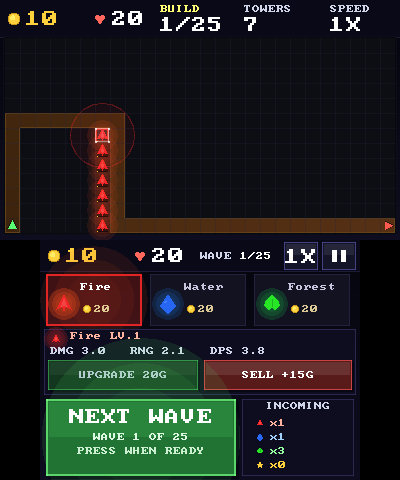
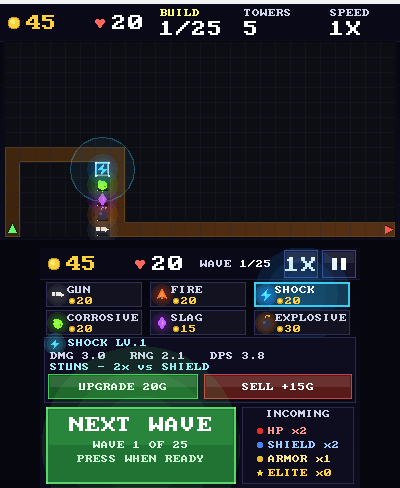
readme: borderlands damage model, v0.3 screenshots and release notes

diff --git a/source/ui.h b/source/ui.h
@@ -75,7 +75,7 @@ bool ui_rect_contains(UiRect r, float x, float y);
 
 /* ---- explicit hit boxes, shared with the preview harness ---- */
 UiRect ui_start_rect(void);             /* PHASE_MENU: START               */
-UiRect ui_tower_button_rect(int type);  /* 0..2                            */
+UiRect ui_tower_button_rect(int type);  /* 0..5 (DamageType)               */
 UiRect ui_upgrade_rect(void);           /* selected / cursor tower panel   */
 UiRect ui_sell_rect(void);
 UiRect ui_next_wave_rect(void);         /* PHASE_BUILD                     */

diff --git a/README.md b/README.md
@@ -1,12 +1,12 @@
 # Attempt 2: Elemental Defense for the 3DS
 
 A tower defense game I originally wrote in LÖVE2D, rebuilt from scratch in C so it actually runs
-properly on a Nintendo 3DS.
+properly on a Nintendo 3DS — now with a Borderlands-style layered damage model.
 
 The first attempt ran the LÖVE version through LovePotion. It booted! And then crawled at a few
 frames per second with half the playfield off-screen and touch controls fighting LÖVE's mouse
 emulation. Rather than keep patching a compatibility layer that was never going to behave, this repo
-is the native rewrite: same game, same numbers, drawn with `citro2d`.
+is the native rewrite: same core idea, drawn with `citro2d`.
 
 The old attempt for posterity: [tower-defense-3ds-psvita-project-attempt](https://github.com/Mist-Eros/tower-defense-3ds-psvita-project-attempt)
 
@@ -17,35 +17,48 @@ The old attempt for posterity: [tower-defense-3ds-psvita-project-attempt](https:
 A grid tower defense on a 26x13 board. Creeps crawl along a road from the left edge to the right, you
 build towers to stop them, and every kill pays for the next tower.
 
-The important bit: **you build on the road, not just next to it.** Every tower you drop on the path
-makes the creeps recalculate their route around it, so the game is about walling off the short way and
-forcing them through a long winding detour that keeps them in range of more towers. The route is a BFS
-shortest path and gets recomputed after every build and every sell; creeps already on the road follow
-the new route. Block the road completely and the game won't let you place the tower.
+Two things make it different from a normal tower defense:
 
-Three elemental towers — **Fire**, **Water**, **Forest** — with a rock-paper-scissors damage table:
+**You build on the road, not just next to it.** Every tower you drop on the path makes the creeps
+recalculate their route around it, so the game is about walling off the short way and forcing them
+through a long winding detour that keeps them in range of more towers. The route is a BFS shortest
+path and gets recomputed after every build and every sell; creeps already on the road follow the new
+route. Block the road completely and the game won't let you place the tower.
 
-| | vs Fire | vs Water | vs Forest |
-|---|---|---|---|
-| **Fire** | x1 | x0.5 | **x2** |
-| **Water** | **x2** | x1 | x0.5 |
-| **Forest** | x0.5 | **x2** | x1 |
+**Enemies are stacks of 1–3 concentric rings.** Every ring is red **HP**, blue **Shield** or yellow
+**Armor**, destroyed from the outside in. You have six damage types — normal, fire, electric,
+corrosive, slag and explosive — and each elemental one is strong against one ring type, weak against
+the others, and does something else on top:
 
-Fire melts forest, water douses fire, forest drinks water. Enemies come in the same three elements,
-mixed into each wave, plus elite versions on every 5th wave. Towers upgrade ten levels, damage doubles
-with every level, and the cooldown tightens as you go. You have 20 lives: a creep that reaches the end
-of the road takes one with it. Clear 25 waves and you win.
+| Tower | Damage type | Cost | Strong vs | What it does |
+|---|---|---|---|---|
+| **GUN** | normal | 20 | everything equally | straight single-target damage |
+| **FIRE** | fire | 20 | HP ×2 | stacks a burn (up to 5 stacks, 2.5 s) |
+| **SHOCK** | electric | 20 | Shield ×2 | stuns for 0.3 s |
+| **CORROSIVE** | corrosive | 20 | Armor ×2 | drops a 5 s acid puddle that burns everything walking over it |
+| **SLAG** | slag | 15 | — | target takes +50% damage from everything and moves slower; slag itself hits weakly |
+| **EXPLOSIVE** | explosive | 30 | everything equally | area blast (1.3 cells) but fires 3× slower |
+
+Strong multipliers are ×2, weak multipliers ×0.5; normal and explosive are ×1 against every layer.
+Waves 1–3 have single-ring creeps, waves 4–8 have two rings, waves 9+ have all three; elites get an
+extra ring. Towers upgrade ten levels (damage doubles each level), you have 20 lives, elites show up
+every 5th wave, and clearing 25 waves wins.
 
 Top screen is the battlefield, bottom screen is the touch panel. The game is paused between waves so
 you can build as long as you like before calling the next one in.
 
 ## Screenshots
 
-Straight out of Azahar, top screen above and touchscreen below, running the v0.2 build:
+Straight out of Azahar, top screen above and touchscreen below:
 
-| Menu | Build phase, road walled off and rerouted | Creeps walking the long way round |
+| Menu | Build phase: all six damage types | Wave: layered creeps |
 |---|---|---|
 | ![menu](docs/screenshots/menu.png) | ![build phase](docs/screenshots/build.png) | ![combat](docs/screenshots/wave.png) |
+
+Close-ups of the damage model, rendered by the game's own frame code in the PC preview harness
+(the menu/build/wave shots above are real Azahar captures):
+
+![effects](docs/screenshots/effects.png)
 
 ## Playing it
 
@@ -61,7 +74,7 @@ point that can run `.3dsx` files).
 | D-pad | move the build cursor on the battlefield |
 | A | place the selected tower |
 | X / Y | upgrade / sell the selected tower |
-| L / R | cycle tower type |
+| L / R | cycle the six damage types |
 | Start | pause |
 | Select | change game speed (1x / 2x / 4x) |
 
@@ -74,13 +87,13 @@ Playing under an emulator (I use Azahar)? I map **WASD** to the d-pad, **U/H/J/K
 
 ## Status
 
-Playable end to end: maze building on the road, 25 waves, all three towers, upgrades, lives, game
-over, victory. It boots at a stable 60 fps in the Azahar emulator, which is where all my testing so far
-happened — real-hardware input and GPU output are the next thing I'll verify on the actual console.
-What's still missing:
+Playable end to end: maze building on the road, 25 waves, six damage types against layered enemies,
+status effects, upgrades, lives, game over, victory. It boots at a stable 60 fps in the Azahar
+emulator, which is where all my testing so far happened — real-hardware input and GPU output are the
+next thing I'll verify on the actual console. What's still missing:
 
 - [ ] sound effects and music (the audio layer is stubbed, the original `.wav`s are still around)
-- [ ] real-hardware playtest tuning — balance is still the old LÖVE numbers on top of the new maze mechanic
+- [ ] real-hardware playtest tuning — the balance only exists in the sim so far
 - [ ] general polish: another pass on the menus, and the bottom panel starts to feel cramped at 320px
 
 ## Building it
@@ -108,12 +121,12 @@ into one file. So:
 ```
 source/core/     portable C99 game simulation - no 3DS headers, runs on a PC
 source/plat_3ds.c citro2d backend for the two screens
-source/render.c  top screen: board, towers, enemies, effects
-source/ui.c      bottom screen: build panel, upgrade/sell, wave control
+source/render.c  top screen: board, towers, layered enemies, status effects, beams
+source/ui.c      bottom screen: six-tower palette, upgrade/sell, wave control
 source/app.c     the scene state machine and input → action mapping
 source/main.c    aptMainLoop / hid polling / frame timing
-tests/           the core's unit tests (32 of them), built and run on the host
-tools/sim.c      headless auto-play balance sim
+tests/           the core's unit tests (46 of them), built and run on the host
+tools/sim.c      headless auto-play balance sim (mixed army, maze AI, GUN-only control)
 tools/preview/   a tiny PC software renderer that dumps PNG frames - my "emulator"
 ```
 
@@ -121,6 +134,10 @@ The core is plain C99 with no dynamic allocation, everything in fixed pools. It'
 a seed, which makes the tests and the sim reproducible. `tests/` and `tools/sim.c` build with any
 normal C compiler; `tools/preview` re-implements `gfx.h` with a software rasteriser so I can iterate
 on layout without touching hardware. The 3DS build uses the same `game.h` + `gfx.h` contracts.
+
+The combat model has its own design sheet in [`docs/elements-spec.md`](docs/elements-spec.md) (numbers,
+multipliers, status-effect rules) and the full port/implementation spec is
+[`docs/design.md`](docs/design.md).
 
 Run the tests:
 
@@ -131,18 +148,22 @@ make -C tests CC=cc test     # any C compiler
 ## Why rewrite instead of fixing the Lua one
 
 The LÖVE version has all the actual game design in it — tower stats, wave composition, upgrade costs —
-and I kept that (there's a full port spec in [`docs/design.md`](docs/design.md) with the original
+and I kept the good parts (there's a full spec in [`docs/design.md`](docs/design.md) with the original
 numbers extracted line by line). What I didn't keep is the rendering and input layer. LÖVE on the 3DS
 was never going to push a 1280x720 canvas of shapes at a decent framerate, and the touch/keyboard
 mismatch meant the game was unplayable on the console it was made for. Writing the game once in C
 against libctru is less work than fighting a compatibility layer forever.
 
 The original Lua game also had a few... creative ideas: there was no lose condition, enemies reaching
-the end actually *paid you* gold, and waves auto-chained with no build phase. Those are fixed here
-(see `docs/design.md` §14 for the full list of deliberate changes).
+the end actually *paid you* gold, waves auto-chained with no build phase, and it had three identical
+towers. Those are fixed here (see `docs/design.md` §14 for the full list of deliberate changes), and
+the element system was replaced with the Borderlands-inspired layered one because the original
+rock-paper-scissors table was about as deep as a puddle.
 
 ## Credits
 
 - [devkitPro](https://devkitpro.org/), libctru, citro3d and citro2d — without these, no 3DS homebrew.
 - [font8x8](https://github.com/dhepper/font8x8) by Daniel Hepper (public domain) for the bitmap font.
+- Damage model inspired by Borderlands 2's elemental system (HP/shield/armor layers, fire/shock/
+  corrosive/slag/explosive), rebuilt from scratch for a 2D grid game.
 - The original Elemental Defense was my own LÖVE2D project.
